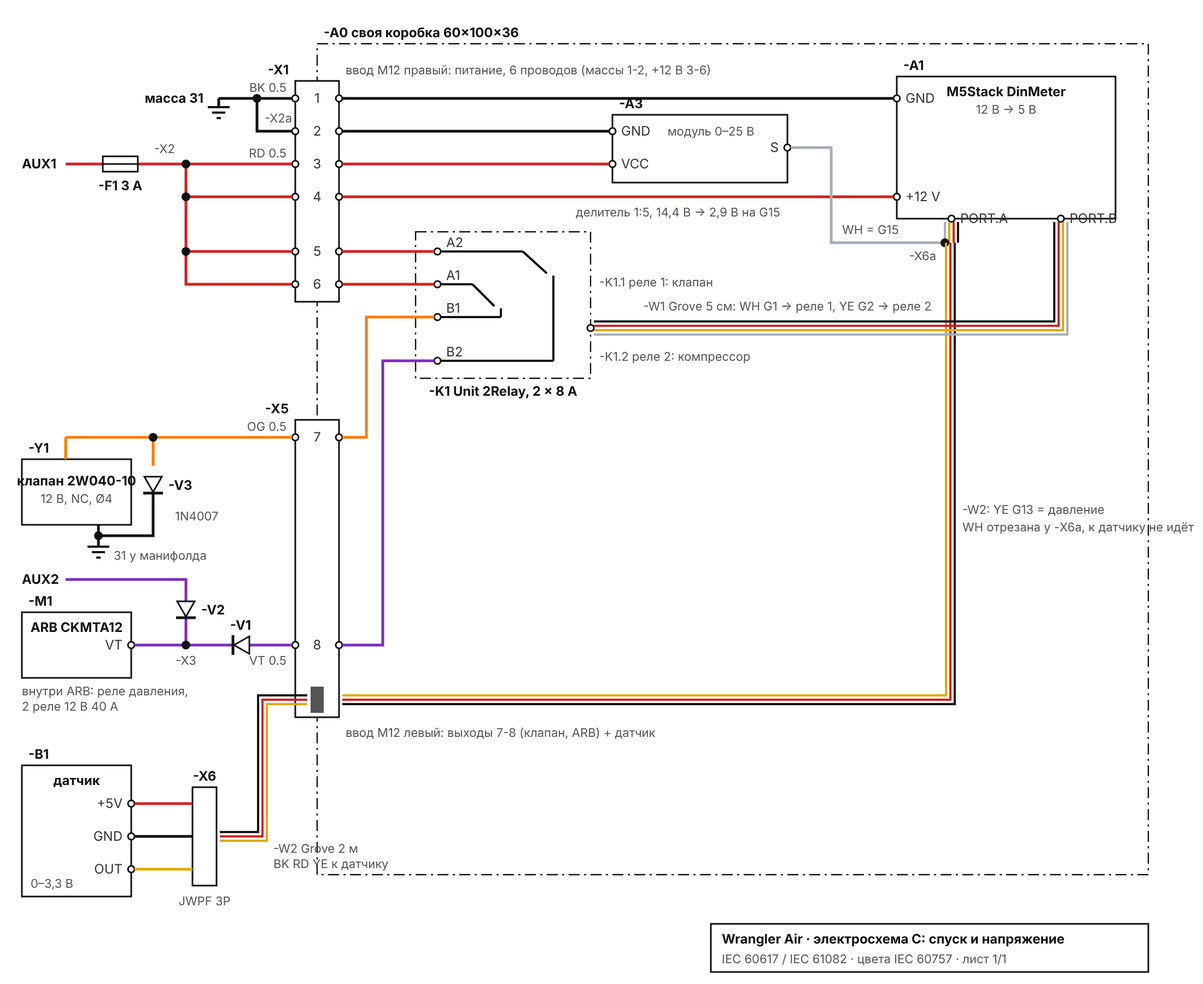
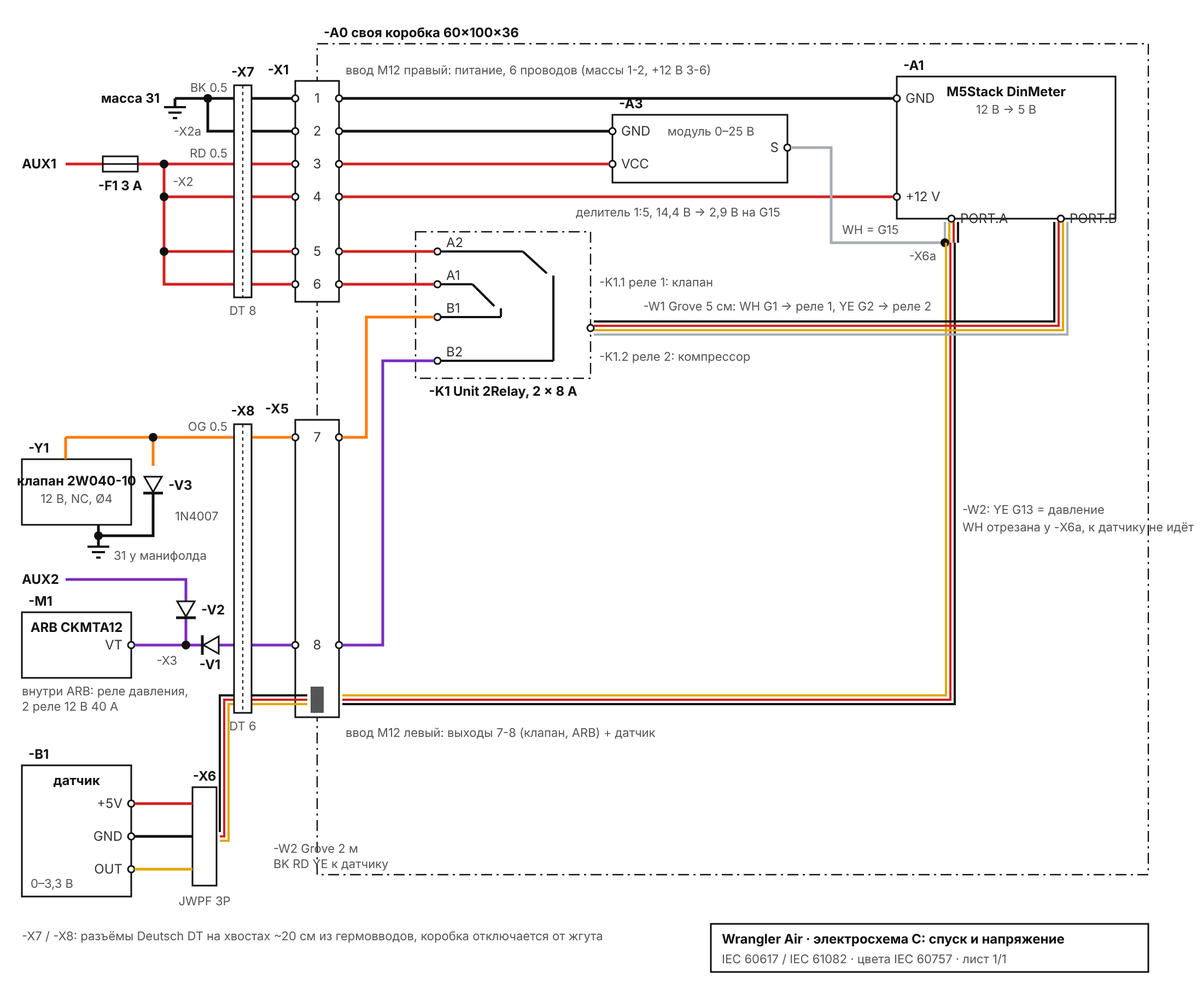
Schematic C: Deutsch DT connectors -X7 (in, 8-way) and -X8 (out, 6-way) on the gland pigtails
Claude-Session: https://claude.ai/code/session_018z5LvCZ9NFya6WZW91qW8w

diff --git a/hardware/enclosure/hammond_1591c/power_schematic_def.html b/hardware/enclosure/hammond_1591c/power_schematic_def.html
@@ -1,1 +1,1 @@
-<meta charset="utf-8"><body style="margin:0;--f:Inter,system-ui,sans-serif"><svg viewBox="0 0 1100 900" style="color:var(--fg);max-width:1100px;margin:0 auto;background:#fff;border-radius:8px"><style>.d{font:700 12px var(--f);fill:#111}.n{font:12px var(--f);fill:#333}.c{font:11px var(--f);fill:#555}.w{stroke:#111;stroke-width:2;fill:none;stroke-linejoin:miter}.b{fill:#fff;stroke:#111;stroke-width:1.5}.box{fill:none;stroke:#111;stroke-width:1.2;stroke-dasharray:10 4 2 4}.t{fill:#fff;stroke:#111;stroke-width:1.5}</style><rect x="290" y="40" width="760" height="760" class="box"/><text x="296" y="34" class="d" text-anchor="start">-A0  своя коробка 60×100×36</text><rect x="270" y="74" width="40" height="202" class="b"/><text x="264" y="68" class="d" text-anchor="end">-X1</text><text x="316" y="68" class="c" text-anchor="start">ввод M12 правый: питание, 6 проводов (массы 1-2, +12 В 3-6)</text><rect x="270" y="384" width="40" height="272" class="b"/><text x="264" y="378" class="d" text-anchor="end">-X5</text><text x="316" y="674" class="c" text-anchor="start">ввод M12 левый: выходы 7-8 (клапан, ARB) + датчик</text><circle cx="270" cy="90" r="3" class="t"/><circle cx="310" cy="90" r="3" class="t"/><text x="290" y="94" class="n" text-anchor="middle">1</text><circle cx="270" cy="120" r="3" class="t"/><circle cx="310" cy="120" r="3" class="t"/><text x="290" y="124" class="n" text-anchor="middle">2</text><circle cx="270" cy="150" r="3" class="t"/><circle cx="310" cy="150" r="3" class="t"/><text x="290" y="154" class="n" text-anchor="middle">3</text><circle cx="270" cy="180" r="3" class="t"/><circle cx="310" cy="180" r="3" class="t"/><text x="290" y="184" class="n" text-anchor="middle">4</text><circle cx="270" cy="230" r="3" class="t"/><circle cx="310" cy="230" r="3" class="t"/><text x="290" y="234" class="n" text-anchor="middle">5</text><circle cx="270" cy="260" r="3" class="t"/><circle cx="310" cy="260" r="3" class="t"/><text x="290" y="264" class="n" text-anchor="middle">6</text><circle cx="270" cy="400" r="3" class="t"/><circle cx="310" cy="400" r="3" class="t"/><text x="290" y="404" class="n" text-anchor="middle">7</text><circle cx="270" cy="590" r="3" class="t"/><circle cx="310" cy="590" r="3" class="t"/><text x="290" y="594" class="n" text-anchor="middle">8</text><rect x="284" y="628" width="12" height="24" fill="#555"/><polyline fill="none" stroke="#111111" stroke-width="2.5" stroke-linejoin="miter" points="200,90 267,90"/><polyline fill="none" stroke="#111111" stroke-width="2.5" stroke-linejoin="miter" points="235,90 235,120 267,120"/><circle cx="235" cy="90" r="4" fill="#111"/><polyline fill="none" stroke="#111111" stroke-width="2.5" stroke-linejoin="miter" points="200,90 200,98"/><line x1="190" y1="98" x2="210" y2="98" stroke="#111" stroke-width="2"/><line x1="194" y1="103" x2="206" y2="103" stroke="#111" stroke-width="2"/><line x1="198" y1="108" x2="202" y2="108" stroke="#111" stroke-width="2"/><text x="186" y="94" class="d" text-anchor="end">масса 31</text><text x="242" y="112" class="c" text-anchor="start">-X2a</text><text x="262" y="84" class="c" text-anchor="end">BK 0.5</text><text x="20" y="154" class="d" text-anchor="start">AUX1</text><polyline fill="none" stroke="#d42020" stroke-width="2.5" stroke-linejoin="miter" points="60,150 267,150"/><rect x="94" y="143" width="32" height="14" class="b"/><line x1="94" y1="150" x2="126" y2="150" stroke="#111" stroke-width="1.5"/><text x="110" y="136" class="d" text-anchor="middle"> </text><text x="110" y="174" class="d" text-anchor="middle">-F1 3 A</text><polyline fill="none" stroke="#d42020" stroke-width="2.5" stroke-linejoin="miter" points="170,150 170,260 267,260"/><polyline fill="none" stroke="#d42020" stroke-width="2.5" stroke-linejoin="miter" points="170,180 267,180"/><polyline fill="none" stroke="#d42020" stroke-width="2.5" stroke-linejoin="miter" points="170,230 267,230"/><circle cx="170" cy="150" r="4" fill="#111"/><circle cx="170" cy="180" r="4" fill="#111"/><circle cx="170" cy="230" r="4" fill="#111"/><text x="160" y="140" class="c" text-anchor="end">-X2</text><text x="262" y="144" class="c" text-anchor="end">RD 0.5</text><polyline fill="none" stroke="#ff7a00" stroke-width="2.5" stroke-linejoin="miter" points="60,400 267,400"/><text x="262" y="394" class="c" text-anchor="end">OG 0.5</text><rect x="20" y="420" width="100" height="60" class="b"/><text x="26" y="414" class="d" text-anchor="start">-Y1</text><text x="70" y="444" class="d" text-anchor="middle">клапан 2W040-10</text><text x="70" y="460" class="c" text-anchor="middle">12 В, NC, Ø4</text><polyline fill="none" stroke="#ff7a00" stroke-width="2.5" stroke-linejoin="miter" points="60,400 60,420"/><polyline fill="none" stroke="#111111" stroke-width="2.5" stroke-linejoin="miter" points="90,480 90,500"/><line x1="80" y1="500" x2="100" y2="500" stroke="#111" stroke-width="2"/><line x1="84" y1="505" x2="96" y2="505" stroke="#111" stroke-width="2"/><line x1="88" y1="510" x2="92" y2="510" stroke="#111" stroke-width="2"/><text x="104" y="512" class="c" text-anchor="start">31 у манифолда</text><polyline fill="none" stroke="#ff7a00" stroke-width="2.5" stroke-linejoin="miter" points="140,400 140,426"/><polygon points="132,436 148,436 140,450" class="b"/><line x1="131" y1="451" x2="149" y2="451" stroke="#111" stroke-width="2.5"/><text x="154" y="448" class="d" text-anchor="start">-V3</text><polyline fill="none" stroke="#111111" stroke-width="2.5" stroke-linejoin="miter" points="140,452 140,490 90,490"/><circle cx="140" cy="400" r="4" fill="#111"/><circle cx="90" cy="490" r="4" fill="#111"/><text x="160" y="476" class="c" text-anchor="start">1N4007</text><text x="20" y="534" class="d" text-anchor="start">AUX2</text><polyline fill="none" stroke="#7b2cbf" stroke-width="2.5" stroke-linejoin="miter" points="60,530 170,530 170,590"/><polygon points="162,550 178,550 170,564" class="b"/><line x1="161" y1="565" x2="179" y2="565" stroke="#111" stroke-width="2.5"/><text x="184" y="562" class="d" text-anchor="start">-V2</text><rect x="20" y="560" width="100" height="60" class="b"/><text x="26" y="554" class="d" text-anchor="start">-M1</text><text x="70.0" y="578" class="d" text-anchor="middle">ARB CKMTA12</text><circle cx="120" cy="590" r="3" class="t"/><text x="112" y="594" class="n" text-anchor="end">VT</text><polyline fill="none" stroke="#7b2cbf" stroke-width="2.5" stroke-linejoin="miter" points="123,590 267,590"/><circle cx="170" cy="590" r="4" fill="#111"/><polygon points="228,582 228,598 214,590" class="b"/><line x1="213" y1="581" x2="213" y2="599" stroke="#111" stroke-width="2.5"/><text x="220" y="576" class="d" text-anchor="middle">-V1</text><text x="170" y="608" class="c" text-anchor="middle">-X3</text><text x="262" y="608" class="c" text-anchor="end">VT 0.5</text><text x="20" y="636" class="c" text-anchor="start">внутри ARB: реле давления,</text><text x="20" y="650" class="c" text-anchor="start">2 реле 12 В 40 А</text><rect x="20" y="700" width="100" height="120" class="b"/><text x="26" y="694" class="d" text-anchor="start">-B1</text><text x="70.0" y="718" class="d" text-anchor="middle">датчик</text><text x="28" y="812" class="c" text-anchor="start">0–3,3 В</text><circle cx="120" cy="735" r="3" class="t"/><text x="112" y="739" class="n" text-anchor="end">+5V</text><circle cx="120" cy="765" r="3" class="t"/><text x="112" y="769" class="n" text-anchor="end">GND</text><circle cx="120" cy="795" r="3" class="t"/><text x="112" y="799" class="n" text-anchor="end">OUT</text><rect x="176" y="720" width="22" height="90" class="b"/><text x="187" y="714" class="d" text-anchor="middle">-X6</text><text x="187" y="828" class="c" text-anchor="middle">JWPF 3P</text><polyline fill="none" stroke="#d42020" stroke-width="2.5" stroke-linejoin="miter" points="123,735 176,735"/><polyline fill="none" stroke="#111111" stroke-width="2.5" stroke-linejoin="miter" points="123,765 176,765"/><polyline fill="none" stroke="#e0a800" stroke-width="2.5" stroke-linejoin="miter" points="123,795 176,795"/><polyline fill="none" stroke="#111111" stroke-width="2" stroke-linejoin="miter" points="281,636.0 236.0,636.0 236.0,761.0 201,761.0"/><polyline fill="none" stroke="#d42020" stroke-width="2" stroke-linejoin="miter" points="281,640.0 240.0,640.0 240.0,765.0 201,765.0"/><polyline fill="none" stroke="#e0a800" stroke-width="2" stroke-linejoin="miter" points="281,644.0 244.0,644.0 244.0,769.0 201,769.0"/><text x="250" y="780" class="c" text-anchor="start">-W2 Grove 2 м</text><text x="250" y="794" class="c" text-anchor="start">BK RD YE к датчику</text><rect x="820" y="70" width="200" height="130" class="b"/><text x="826" y="64" class="d" text-anchor="start">-A1</text><text x="920.0" y="88" class="d" text-anchor="middle">M5Stack DinMeter</text><text x="920.0" y="104" class="c" text-anchor="middle">12 В → 5 В</text><circle cx="820" cy="90" r="3" class="t"/><text x="828" y="94" class="n" text-anchor="start">GND</text><circle cx="820" cy="180" r="3" class="t"/><text x="828" y="184" class="n" text-anchor="start">+12 V</text><polyline fill="none" stroke="#111111" stroke-width="2.5" stroke-linejoin="miter" points="313,90 817,90"/><polyline fill="none" stroke="#d42020" stroke-width="2.5" stroke-linejoin="miter" points="313,180 817,180"/><circle cx="870" cy="200" r="3" class="t"/><text x="878" y="204" class="n" text-anchor="start">PORT.A</text><circle cx="970" cy="200" r="3" class="t"/><text x="978" y="204" class="n" text-anchor="start">PORT.B</text><rect x="560" y="105" width="160" height="62" class="b"/><text x="566" y="99" class="d" text-anchor="start">-A3</text><text x="640.0" y="123" class="d" text-anchor="middle"></text><text x="650" y="124" class="c" text-anchor="middle">модуль 0–25 В</text><circle cx="560" cy="120" r="3" class="t"/><text x="568" y="124" class="n" text-anchor="start">GND</text><circle cx="560" cy="150" r="3" class="t"/><text x="568" y="154" class="n" text-anchor="start">VCC</text><circle cx="720" cy="135" r="3" class="t"/><text x="712" y="139" class="n" text-anchor="end">S</text><polyline fill="none" stroke="#111111" stroke-width="2.5" stroke-linejoin="miter" points="313,120 557,120"/><polyline fill="none" stroke="#d42020" stroke-width="2.5" stroke-linejoin="miter" points="313,150 557,150"/><polyline fill="none" stroke="#a7adb4" stroke-width="2" stroke-linejoin="miter" points="864.0,203 864.0,222"/><polyline fill="none" stroke="#e0a800" stroke-width="2" stroke-linejoin="miter" points="868.0,203 868.0,222"/><polyline fill="none" stroke="#d42020" stroke-width="2" stroke-linejoin="miter" points="872.0,203 872.0,222"/><polyline fill="none" stroke="#111111" stroke-width="2" stroke-linejoin="miter" points="876.0,203 876.0,222"/><polyline fill="none" stroke="#a7adb4" stroke-width="2.5" stroke-linejoin="miter" points="864,222 760,222 760,135 723,135"/><circle cx="864" cy="222" r="4" fill="#111"/><text x="856" y="238" class="c" text-anchor="end">-X6a</text><text x="770" y="214" class="c" text-anchor="start">WH = G15</text><text x="620" y="198" class="c" text-anchor="middle">делитель 1:5, 14,4 В → 2,9 В на G15</text><polyline fill="none" stroke="#e0a800" stroke-width="2" stroke-linejoin="miter" points="865.0,222 865.0,636.0 313,636.0"/><polyline fill="none" stroke="#d42020" stroke-width="2" stroke-linejoin="miter" points="869.0,222 869.0,640.0 313,640.0"/><polyline fill="none" stroke="#111111" stroke-width="2" stroke-linejoin="miter" points="873.0,222 873.0,644.0 313,644.0"/><text x="880" y="470" class="c" text-anchor="start">-W2: YE G13 = давление</text><text x="880" y="486" class="c" text-anchor="start">WH отрезана у -X6a, к датчику не идёт</text><rect x="380" y="212" width="160" height="134" class="box"/><text x="460" y="362" class="d" text-anchor="middle">-K1 Unit 2Relay, 2 × 8 A</text><circle cx="400" cy="230" r="3" class="t"/><text x="408" y="226" class="n" text-anchor="start">A2</text><circle cx="400" cy="260" r="3" class="t"/><text x="408" y="256" class="n" text-anchor="start">A1</text><circle cx="400" cy="290" r="3" class="t"/><text x="408" y="286" class="n" text-anchor="start">B1</text><circle cx="400" cy="330" r="3" class="t"/><text x="408" y="326" class="n" text-anchor="start">B2</text><line x1="403" y1="260" x2="432" y2="260" stroke="#111" stroke-width="2"/><line x1="432" y1="260" x2="452" y2="280" stroke="#111" stroke-width="2"/><line x1="403" y1="290" x2="458" y2="290" stroke="#111" stroke-width="2"/><line x1="458" y1="290" x2="458" y2="282" stroke="#111" stroke-width="2"/><line x1="403" y1="230" x2="478" y2="230" stroke="#111" stroke-width="2"/><line x1="478" y1="230" x2="500" y2="250" stroke="#111" stroke-width="2"/><line x1="403" y1="330" x2="506" y2="330" stroke="#111" stroke-width="2"/><line x1="506" y1="330" x2="506" y2="252" stroke="#111" stroke-width="2"/><text x="548" y="262" class="c" text-anchor="start">-K1.1 реле 1: клапан</text><text x="548" y="330" class="c" text-anchor="start">-K1.2 реле 2: компрессор</text><polyline fill="none" stroke="#d42020" stroke-width="2.5" stroke-linejoin="miter" points="313,230 397,230"/><polyline fill="none" stroke="#d42020" stroke-width="2.5" stroke-linejoin="miter" points="313,260 397,260"/><polyline fill="none" stroke="#ff7a00" stroke-width="2.5" stroke-linejoin="miter" points="397,290 335,290 335,400 313,400"/><polyline fill="none" stroke="#7b2cbf" stroke-width="2.5" stroke-linejoin="miter" points="397,330 350,330 350,590 313,590"/><polyline fill="none" stroke="#111111" stroke-width="2" stroke-linejoin="miter" points="964.0,203 964.0,294.0 543,294.0"/><polyline fill="none" stroke="#d42020" stroke-width="2" stroke-linejoin="miter" points="968.0,203 968.0,298.0 543,298.0"/><polyline fill="none" stroke="#e0a800" stroke-width="2" stroke-linejoin="miter" points="972.0,203 972.0,302.0 543,302.0"/><polyline fill="none" stroke="#a7adb4" stroke-width="2" stroke-linejoin="miter" points="976.0,203 976.0,306.0 543,306.0"/><circle cx="540" cy="300" r="3" class="t"/><text x="720" y="284" class="c" text-anchor="middle">-W1 Grove 5 см: WH G1 → реле 1, YE G2 → реле 2</text><rect x="650" y="845" width="400" height="44" class="b"/><text x="660" y="863" class="d" text-anchor="start">Wrangler Air · электросхема C: спуск и напряжение</text><text x="660" y="881" class="c" text-anchor="start">IEC 60617 / IEC 61082 · цвета IEC 60757 · лист 1/1</text></svg>
+<meta charset="utf-8"><body style="margin:0;--f:Inter,system-ui,sans-serif"><svg viewBox="0 0 1100 900" style="color:var(--fg);max-width:1100px;margin:0 auto;background:#fff;border-radius:8px"><style>.d{font:700 12px var(--f);fill:#111}.n{font:12px var(--f);fill:#333}.c{font:11px var(--f);fill:#555}.w{stroke:#111;stroke-width:2;fill:none;stroke-linejoin:miter}.b{fill:#fff;stroke:#111;stroke-width:1.5}.box{fill:none;stroke:#111;stroke-width:1.2;stroke-dasharray:10 4 2 4}.t{fill:#fff;stroke:#111;stroke-width:1.5}</style><rect x="290" y="40" width="760" height="760" class="box"/><text x="296" y="34" class="d" text-anchor="start">-A0  своя коробка 60×100×36</text><rect x="270" y="74" width="40" height="202" class="b"/><text x="264" y="68" class="d" text-anchor="end">-X1</text><text x="316" y="68" class="c" text-anchor="start">ввод M12 правый: питание, 6 проводов (массы 1-2, +12 В 3-6)</text><rect x="270" y="384" width="40" height="272" class="b"/><text x="264" y="378" class="d" text-anchor="end">-X5</text><text x="316" y="674" class="c" text-anchor="start">ввод M12 левый: выходы 7-8 (клапан, ARB) + датчик</text><circle cx="270" cy="90" r="3" class="t"/><circle cx="310" cy="90" r="3" class="t"/><text x="290" y="94" class="n" text-anchor="middle">1</text><circle cx="270" cy="120" r="3" class="t"/><circle cx="310" cy="120" r="3" class="t"/><text x="290" y="124" class="n" text-anchor="middle">2</text><circle cx="270" cy="150" r="3" class="t"/><circle cx="310" cy="150" r="3" class="t"/><text x="290" y="154" class="n" text-anchor="middle">3</text><circle cx="270" cy="180" r="3" class="t"/><circle cx="310" cy="180" r="3" class="t"/><text x="290" y="184" class="n" text-anchor="middle">4</text><circle cx="270" cy="230" r="3" class="t"/><circle cx="310" cy="230" r="3" class="t"/><text x="290" y="234" class="n" text-anchor="middle">5</text><circle cx="270" cy="260" r="3" class="t"/><circle cx="310" cy="260" r="3" class="t"/><text x="290" y="264" class="n" text-anchor="middle">6</text><circle cx="270" cy="400" r="3" class="t"/><circle cx="310" cy="400" r="3" class="t"/><text x="290" y="404" class="n" text-anchor="middle">7</text><circle cx="270" cy="590" r="3" class="t"/><circle cx="310" cy="590" r="3" class="t"/><text x="290" y="594" class="n" text-anchor="middle">8</text><rect x="284" y="628" width="12" height="24" fill="#555"/><polyline fill="none" stroke="#111111" stroke-width="2.5" stroke-linejoin="miter" points="160,90 267,90"/><polyline fill="none" stroke="#111111" stroke-width="2.5" stroke-linejoin="miter" points="190,90 190,120 267,120"/><circle cx="190" cy="90" r="4" fill="#111"/><polyline fill="none" stroke="#111111" stroke-width="2.5" stroke-linejoin="miter" points="160,90 160,98"/><line x1="150" y1="98" x2="170" y2="98" stroke="#111" stroke-width="2"/><line x1="154" y1="103" x2="166" y2="103" stroke="#111" stroke-width="2"/><line x1="158" y1="108" x2="162" y2="108" stroke="#111" stroke-width="2"/><text x="146" y="94" class="d" text-anchor="end">масса 31</text><text x="184" y="124" class="c" text-anchor="end">-X2a</text><text x="208" y="84" class="c" text-anchor="end">BK 0.5</text><text x="20" y="154" class="d" text-anchor="start">AUX1</text><polyline fill="none" stroke="#d42020" stroke-width="2.5" stroke-linejoin="miter" points="60,150 267,150"/><rect x="94" y="143" width="32" height="14" class="b"/><line x1="94" y1="150" x2="126" y2="150" stroke="#111" stroke-width="1.5"/><text x="110" y="136" class="d" text-anchor="middle"> </text><text x="110" y="174" class="d" text-anchor="middle">-F1 3 A</text><polyline fill="none" stroke="#d42020" stroke-width="2.5" stroke-linejoin="miter" points="150,150 150,260 267,260"/><polyline fill="none" stroke="#d42020" stroke-width="2.5" stroke-linejoin="miter" points="150,180 267,180"/><polyline fill="none" stroke="#d42020" stroke-width="2.5" stroke-linejoin="miter" points="150,230 267,230"/><circle cx="150" cy="150" r="4" fill="#111"/><circle cx="150" cy="180" r="4" fill="#111"/><circle cx="150" cy="230" r="4" fill="#111"/><text x="158" y="170" class="c" text-anchor="start">-X2</text><text x="208" y="144" class="c" text-anchor="end">RD 0.5</text><polyline fill="none" stroke="#ff7a00" stroke-width="2.5" stroke-linejoin="miter" points="60,400 267,400"/><text x="208" y="394" class="c" text-anchor="end">OG 0.5</text><rect x="20" y="420" width="100" height="60" class="b"/><text x="26" y="414" class="d" text-anchor="start">-Y1</text><text x="70" y="444" class="d" text-anchor="middle">клапан 2W040-10</text><text x="70" y="460" class="c" text-anchor="middle">12 В, NC, Ø4</text><polyline fill="none" stroke="#ff7a00" stroke-width="2.5" stroke-linejoin="miter" points="60,400 60,420"/><polyline fill="none" stroke="#111111" stroke-width="2.5" stroke-linejoin="miter" points="90,480 90,500"/><line x1="80" y1="500" x2="100" y2="500" stroke="#111" stroke-width="2"/><line x1="84" y1="505" x2="96" y2="505" stroke="#111" stroke-width="2"/><line x1="88" y1="510" x2="92" y2="510" stroke="#111" stroke-width="2"/><text x="104" y="512" class="c" text-anchor="start">31 у манифолда</text><polyline fill="none" stroke="#ff7a00" stroke-width="2.5" stroke-linejoin="miter" points="140,400 140,426"/><polygon points="132,436 148,436 140,450" class="b"/><line x1="131" y1="451" x2="149" y2="451" stroke="#111" stroke-width="2.5"/><text x="154" y="448" class="d" text-anchor="start">-V3</text><polyline fill="none" stroke="#111111" stroke-width="2.5" stroke-linejoin="miter" points="140,452 140,490 90,490"/><circle cx="140" cy="400" r="4" fill="#111"/><circle cx="90" cy="490" r="4" fill="#111"/><text x="160" y="476" class="c" text-anchor="start">1N4007</text><text x="20" y="534" class="d" text-anchor="start">AUX2</text><polyline fill="none" stroke="#7b2cbf" stroke-width="2.5" stroke-linejoin="miter" points="60,530 170,530 170,590"/><polygon points="162,550 178,550 170,564" class="b"/><line x1="161" y1="565" x2="179" y2="565" stroke="#111" stroke-width="2.5"/><text x="184" y="562" class="d" text-anchor="start">-V2</text><rect x="20" y="560" width="100" height="60" class="b"/><text x="26" y="554" class="d" text-anchor="start">-M1</text><text x="70.0" y="578" class="d" text-anchor="middle">ARB CKMTA12</text><circle cx="120" cy="590" r="3" class="t"/><text x="112" y="594" class="n" text-anchor="end">VT</text><polyline fill="none" stroke="#7b2cbf" stroke-width="2.5" stroke-linejoin="miter" points="123,590 267,590"/><circle cx="170" cy="590" r="4" fill="#111"/><polygon points="200,582 200,598 186,590" class="b"/><line x1="185" y1="581" x2="185" y2="599" stroke="#111" stroke-width="2.5"/><text x="192" y="576" class="d" text-anchor="middle"></text><text x="192" y="612" class="d" text-anchor="middle">-V1</text><text x="162" y="608" class="c" text-anchor="end">-X3</text><text x="20" y="636" class="c" text-anchor="start">внутри ARB: реле давления,</text><text x="20" y="650" class="c" text-anchor="start">2 реле 12 В 40 А</text><rect x="20" y="700" width="100" height="120" class="b"/><text x="26" y="694" class="d" text-anchor="start">-B1</text><text x="70.0" y="718" class="d" text-anchor="middle">датчик</text><text x="28" y="812" class="c" text-anchor="start">0–3,3 В</text><circle cx="120" cy="735" r="3" class="t"/><text x="112" y="739" class="n" text-anchor="end">+5V</text><circle cx="120" cy="765" r="3" class="t"/><text x="112" y="769" class="n" text-anchor="end">GND</text><circle cx="120" cy="795" r="3" class="t"/><text x="112" y="799" class="n" text-anchor="end">OUT</text><rect x="176" y="720" width="22" height="90" class="b"/><text x="187" y="714" class="d" text-anchor="middle">-X6</text><text x="187" y="828" class="c" text-anchor="middle">JWPF 3P</text><polyline fill="none" stroke="#d42020" stroke-width="2.5" stroke-linejoin="miter" points="123,735 176,735"/><polyline fill="none" stroke="#111111" stroke-width="2.5" stroke-linejoin="miter" points="123,765 176,765"/><polyline fill="none" stroke="#e0a800" stroke-width="2.5" stroke-linejoin="miter" points="123,795 176,795"/><polyline fill="none" stroke="#111111" stroke-width="2" stroke-linejoin="miter" points="281,636.0 201.0,636.0 201.0,761.0 201,761.0"/><polyline fill="none" stroke="#d42020" stroke-width="2" stroke-linejoin="miter" points="281,640.0 205.0,640.0 205.0,765.0 201,765.0"/><polyline fill="none" stroke="#e0a800" stroke-width="2" stroke-linejoin="miter" points="281,644.0 209.0,644.0 209.0,769.0 201,769.0"/><text x="250" y="780" class="c" text-anchor="start">-W2 Grove 2 м</text><text x="250" y="794" class="c" text-anchor="start">BK RD YE к датчику</text><rect x="820" y="70" width="200" height="130" class="b"/><text x="826" y="64" class="d" text-anchor="start">-A1</text><text x="920.0" y="88" class="d" text-anchor="middle">M5Stack DinMeter</text><text x="920.0" y="104" class="c" text-anchor="middle">12 В → 5 В</text><circle cx="820" cy="90" r="3" class="t"/><text x="828" y="94" class="n" text-anchor="start">GND</text><circle cx="820" cy="180" r="3" class="t"/><text x="828" y="184" class="n" text-anchor="start">+12 V</text><polyline fill="none" stroke="#111111" stroke-width="2.5" stroke-linejoin="miter" points="313,90 817,90"/><polyline fill="none" stroke="#d42020" stroke-width="2.5" stroke-linejoin="miter" points="313,180 817,180"/><circle cx="870" cy="200" r="3" class="t"/><text x="878" y="204" class="n" text-anchor="start">PORT.A</text><circle cx="970" cy="200" r="3" class="t"/><text x="978" y="204" class="n" text-anchor="start">PORT.B</text><rect x="560" y="105" width="160" height="62" class="b"/><text x="566" y="99" class="d" text-anchor="start">-A3</text><text x="640.0" y="123" class="d" text-anchor="middle"></text><text x="650" y="124" class="c" text-anchor="middle">модуль 0–25 В</text><circle cx="560" cy="120" r="3" class="t"/><text x="568" y="124" class="n" text-anchor="start">GND</text><circle cx="560" cy="150" r="3" class="t"/><text x="568" y="154" class="n" text-anchor="start">VCC</text><circle cx="720" cy="135" r="3" class="t"/><text x="712" y="139" class="n" text-anchor="end">S</text><polyline fill="none" stroke="#111111" stroke-width="2.5" stroke-linejoin="miter" points="313,120 557,120"/><polyline fill="none" stroke="#d42020" stroke-width="2.5" stroke-linejoin="miter" points="313,150 557,150"/><polyline fill="none" stroke="#a7adb4" stroke-width="2" stroke-linejoin="miter" points="864.0,203 864.0,222"/><polyline fill="none" stroke="#e0a800" stroke-width="2" stroke-linejoin="miter" points="868.0,203 868.0,222"/><polyline fill="none" stroke="#d42020" stroke-width="2" stroke-linejoin="miter" points="872.0,203 872.0,222"/><polyline fill="none" stroke="#111111" stroke-width="2" stroke-linejoin="miter" points="876.0,203 876.0,222"/><polyline fill="none" stroke="#a7adb4" stroke-width="2.5" stroke-linejoin="miter" points="864,222 760,222 760,135 723,135"/><circle cx="864" cy="222" r="4" fill="#111"/><text x="856" y="238" class="c" text-anchor="end">-X6a</text><text x="770" y="214" class="c" text-anchor="start">WH = G15</text><text x="620" y="198" class="c" text-anchor="middle">делитель 1:5, 14,4 В → 2,9 В на G15</text><polyline fill="none" stroke="#e0a800" stroke-width="2" stroke-linejoin="miter" points="865.0,222 865.0,636.0 313,636.0"/><polyline fill="none" stroke="#d42020" stroke-width="2" stroke-linejoin="miter" points="869.0,222 869.0,640.0 313,640.0"/><polyline fill="none" stroke="#111111" stroke-width="2" stroke-linejoin="miter" points="873.0,222 873.0,644.0 313,644.0"/><text x="880" y="470" class="c" text-anchor="start">-W2: YE G13 = давление</text><text x="880" y="486" class="c" text-anchor="start">WH отрезана у -X6a, к датчику не идёт</text><rect x="380" y="212" width="160" height="134" class="box"/><text x="460" y="362" class="d" text-anchor="middle">-K1 Unit 2Relay, 2 × 8 A</text><circle cx="400" cy="230" r="3" class="t"/><text x="408" y="226" class="n" text-anchor="start">A2</text><circle cx="400" cy="260" r="3" class="t"/><text x="408" y="256" class="n" text-anchor="start">A1</text><circle cx="400" cy="290" r="3" class="t"/><text x="408" y="286" class="n" text-anchor="start">B1</text><circle cx="400" cy="330" r="3" class="t"/><text x="408" y="326" class="n" text-anchor="start">B2</text><line x1="403" y1="260" x2="432" y2="260" stroke="#111" stroke-width="2"/><line x1="432" y1="260" x2="452" y2="280" stroke="#111" stroke-width="2"/><line x1="403" y1="290" x2="458" y2="290" stroke="#111" stroke-width="2"/><line x1="458" y1="290" x2="458" y2="282" stroke="#111" stroke-width="2"/><line x1="403" y1="230" x2="478" y2="230" stroke="#111" stroke-width="2"/><line x1="478" y1="230" x2="500" y2="250" stroke="#111" stroke-width="2"/><line x1="403" y1="330" x2="506" y2="330" stroke="#111" stroke-width="2"/><line x1="506" y1="330" x2="506" y2="252" stroke="#111" stroke-width="2"/><text x="548" y="262" class="c" text-anchor="start">-K1.1 реле 1: клапан</text><text x="548" y="330" class="c" text-anchor="start">-K1.2 реле 2: компрессор</text><polyline fill="none" stroke="#d42020" stroke-width="2.5" stroke-linejoin="miter" points="313,230 397,230"/><polyline fill="none" stroke="#d42020" stroke-width="2.5" stroke-linejoin="miter" points="313,260 397,260"/><polyline fill="none" stroke="#ff7a00" stroke-width="2.5" stroke-linejoin="miter" points="397,290 335,290 335,400 313,400"/><polyline fill="none" stroke="#7b2cbf" stroke-width="2.5" stroke-linejoin="miter" points="397,330 350,330 350,590 313,590"/><polyline fill="none" stroke="#111111" stroke-width="2" stroke-linejoin="miter" points="964.0,203 964.0,294.0 543,294.0"/><polyline fill="none" stroke="#d42020" stroke-width="2" stroke-linejoin="miter" points="968.0,203 968.0,298.0 543,298.0"/><polyline fill="none" stroke="#e0a800" stroke-width="2" stroke-linejoin="miter" points="972.0,203 972.0,302.0 543,302.0"/><polyline fill="none" stroke="#a7adb4" stroke-width="2" stroke-linejoin="miter" points="976.0,203 976.0,306.0 543,306.0"/><circle cx="540" cy="300" r="3" class="t"/><text x="720" y="284" class="c" text-anchor="middle">-W1 Grove 5 см: WH G1 → реле 1, YE G2 → реле 2</text><rect x="214" y="78" width="16" height="194" fill="var(--bg,#fff)" stroke="#111" stroke-width="1.5"/><line x1="222" y1="78" x2="222" y2="272" stroke="#111" stroke-width="1" stroke-dasharray="3 3"/><text x="222" y="70" class="d" text-anchor="middle">-X7</text><text x="222" y="288" class="c" text-anchor="middle">DT 8</text><rect x="214" y="388" width="16" height="264" fill="var(--bg,#fff)" stroke="#111" stroke-width="1.5"/><line x1="222" y1="388" x2="222" y2="652" stroke="#111" stroke-width="1" stroke-dasharray="3 3"/><text x="222" y="380" class="d" text-anchor="middle">-X8</text><text x="222" y="668" class="c" text-anchor="middle">DT 6</text><text x="20" y="860" class="c" text-anchor="start">-X7 / -X8: разъёмы Deutsch DT на хвостах ~20 см из гермовводов, коробка отключается от жгута</text><rect x="650" y="845" width="400" height="44" class="b"/><text x="660" y="863" class="d" text-anchor="start">Wrangler Air · электросхема C: спуск и напряжение</text><text x="660" y="881" class="c" text-anchor="start">IEC 60617 / IEC 61082 · цвета IEC 60757 · лист 1/1</text></svg>

diff --git a/hardware/enclosure/hammond_1591c/power_svg.py b/hardware/enclosure/hammond_1591c/power_svg.py
@@ -456,18 +456,18 @@ def power_svg_iec_def():
         L(*pts, c=c, w=3); slash(*at, n, vertical)
 
     # ---- outside: -X2a ground splice (2 wires), -X2 +12 V splice after -F1 (4 wires) ----
-    L((200, T[1]), (267, T[1]), c="BK"); L((235, T[1]), (235, T[2]), (267, T[2]), c="BK"); dot(235, T[1])
-    L((200, T[1]), (200, T[1] + 8), c="BK"); ground(200, T[1] + 8)
-    lab(186, T[1] + 4, "масса 31", "d", "end"); lab(242, T[2] - 8, "-X2a", "c", "start")
-    lab(262, T[1] - 6, "BK 0.5", "c", "end")
+    L((160, T[1]), (267, T[1]), c="BK"); L((190, T[1]), (190, T[2]), (267, T[2]), c="BK"); dot(190, T[1])
+    L((160, T[1]), (160, T[1] + 8), c="BK"); ground(160, T[1] + 8)
+    lab(146, T[1] + 4, "масса 31", "d", "end"); lab(184, T[2] + 4, "-X2a", "c", "end")
+    lab(208, T[1] - 6, "BK 0.5", "c", "end")
     lab(20, T[3] + 4, "AUX1", "d", "start"); L((60, T[3]), (267, T[3]), c="RD")
     fuse_h(110, T[3], "", ""); lab(110, T[3] + 24, "-F1 3 A", "d")
-    L((170, T[3]), (170, T[6]), (267, T[6]), c="RD"); L((170, T[4]), (267, T[4]), c="RD"); L((170, T[5]), (267, T[5]), c="RD")
-    dot(170, T[3]); dot(170, T[4]); dot(170, T[5]); lab(160, T[3] - 10, "-X2", "c", "end")
-    lab(262, T[3] - 6, "RD 0.5", "c", "end")
+    L((150, T[3]), (150, T[6]), (267, T[6]), c="RD"); L((150, T[4]), (267, T[4]), c="RD"); L((150, T[5]), (267, T[5]), c="RD")
+    dot(150, T[3]); dot(150, T[4]); dot(150, T[5]); lab(158, T[3] + 20, "-X2", "c", "start")
+    lab(208, T[3] - 6, "RD 0.5", "c", "end")
     # deflate valve -Y1 with its flyback diode -V3, ground at the manifold
     VY = T[7]
-    L((60, VY), (267, VY), c="OG"); lab(262, VY - 6, "OG 0.5", "c", "end")
+    L((60, VY), (267, VY), c="OG"); lab(208, VY - 6, "OG 0.5", "c", "end")
     o.append(f'<rect x="20" y="{VY+20}" width="100" height="60" class="b"/>'); lab(26, VY + 14, "-Y1", "d", "start")
     lab(70, VY + 44, "клапан 2W040-10", "d"); lab(70, VY + 60, "12 В, NC, Ø4", "c")
     L((60, VY), (60, VY + 20), c="OG")
@@ -481,8 +481,8 @@ def power_svg_iec_def():
     comp(20, MY - 30, 100, 60, "-M1", "ARB CKMTA12", "")
     pinl(120, MY, "VT", "r")
     L((123, MY), (267, MY), c="VT"); dot(170, MY)
-    diode_h(220, MY, "-V1")
-    lab(170, MY + 18, "-X3", "c"); lab(262, MY + 18, "VT 0.5", "c", "end")
+    diode_h(192, MY, ""); lab(192, MY + 22, "-V1", "d")
+    lab(162, MY + 18, "-X3", "c", "end")
     lab(20, MY + 46, "внутри ARB: реле давления,", "c", "start"); lab(20, MY + 60, "2 реле 12 В 40 А", "c", "start")
     # sensor -B1 on the 2 m Grove, connector -X6 at the sensor (3 conductors used, WH unused there)
     S = {"+5V": 735, "GND": 765, "OUT": 795}
@@ -491,7 +491,7 @@ def power_svg_iec_def():
         pinl(120, y, t, "r")
     o.append('<rect x="176" y="720" width="22" height="90" class="b"/>'); lab(187, 714, "-X6", "d"); lab(187, 828, "JWPF 3P", "c")
     L((123, S["+5V"]), (176, S["+5V"]), c="RD"); L((123, S["GND"]), (176, S["GND"]), c="BK"); L((123, S["OUT"]), (176, S["OUT"]), c="YE")
-    grove4([(281, G2), (240, G2), (240, S["GND"]), (201, S["GND"])], order=("BK", "RD", "YE"))
+    grove4([(281, G2), (205, G2), (205, S["GND"]), (201, S["GND"])], order=("BK", "RD", "YE"))
     lab(250, 780, "-W2 Grove 2 м", "c", "start"); lab(250, 794, "BK RD YE к датчику", "c", "start")
 
     # ---- inside ----
@@ -528,6 +528,15 @@ def power_svg_iec_def():
     L((397, B2), (350, B2), (350, T[8]), (313, T[8]), c="VT")
     grove4([(970, 203), (970, 300), (543, 300)])
     o.append('<circle cx="540" cy="300" r="3" class="t"/>'); lab(720, 284, "-W1 Grove 5 см: WH G1 → реле 1, YE G2 → реле 2", "c")
+
+    # connectors on the pigtails out of the glands (~20 cm): the box unplugs from the car harness, the glands stay
+    def conn(y0, y1, name, sub):
+        o.append(f'<rect x="214" y="{y0}" width="16" height="{y1-y0}" fill="var(--bg,#fff)" stroke="#111" stroke-width="1.5"/>')
+        o.append(f'<line x1="222" y1="{y0}" x2="222" y2="{y1}" stroke="#111" stroke-width="1" stroke-dasharray="3 3"/>')
+        lab(222, y0 - 8, name, "d"); lab(222, y1 + 16, sub, "c")
+    conn(T[1] - 12, T[6] + 12, "-X7", "DT 8")
+    conn(T[7] - 12, G2 + 12, "-X8", "DT 6")
+    lab(20, 860, "-X7 / -X8: разъёмы Deutsch DT на хвостах ~20 см из гермовводов, коробка отключается от жгута", "c", "start")
 
     # title block
     o.append('<rect x="650" y="845" width="400" height="44" class="b"/>')

diff --git a/docs/decisions.md b/docs/decisions.md
@@ -118,3 +118,9 @@
 - Same day, owner: no splice inside the box at all. Relay 1 A gets its own red wire from -X2 (no A2-A1 jumper). -X1 order: 1-2 grounds (DinMeter, module), 3-6 +12 V (module, DinMeter, relay 2 A, relay 1 A), 7 output OG to the valve; -X5: 8 output VT to the ARB plus the Grove to the sensor. Right gland now 7 wires (hex bundle ~5.3 mm, same as 6) in the 9.5 mm adhesive heat-shrink jacket.
 - -X2 splice outside: AUX1 after -F1 into 4 wires; -X2a: ground into 2 wires.
 - Owner: the valve wire is an output, so it moves to the outputs. Right gland = power in only, 6 wires (1-2 grounds, 3-6 +12 V). Left gland = outputs 7 OG (valve) and 8 VT (ARB) plus the Grove to the sensor; valve and sensor both sit at the manifold, so they leave together.
+
+## 2026-11-19 Box disconnect: Deutsch DT connectors on the pigtails
+- Owner: glands stay, no connectors in the box wall. The wires leave the glands as ~20 cm pigtails ending in Deutsch DT connectors, so the box unplugs from the car harness.
+- -X7 input, DT 8-way (6 used): 1 BK DinMeter, 2 BK module, 3 RD module, 4 RD DinMeter, 5 RD relay 2 A, 6 RD relay 1 A, 7-8 spare with seal plugs. Box pigtail DT04-08P (pins), car side DT06-08S (sockets): the always-live car side has the shrouded sockets.
+- -X8 output, DT 6-way (5 used): 1 OG valve, 2 VT ARB, 3 BK sensor GND, 4 RD sensor +5 V, 5 YE sensor signal, 6 spare. Box pigtail DT06-6S (sockets), car side DT04-6P (pins). Different size and gender, so the two cannot be swapped.
+- DT: 13 A per contact, IP68, needs the DT crimp tool. Splices -X2 (+12 V, 1 to 4) and -X2a (ground, 1 to 2) stay in the car harness before -X7.

diff --git a/docs/bom.md b/docs/bom.md
@@ -97,3 +97,12 @@ Mini 3A Relay из первого заказа остаётся запасным
 | Манифолд ARB 171503 | CHF 114, покупает сам |
 | Тройник 1/4 NPT и шланги к колёсам | пневматика |
 | 3M VHB | Galaxus, лежит в корзине |
+
+## Разъёмы для отключения коробки (Deutsch DT, на хвостах из гермовводов)
+
+| Что | Кол-во | Ссылка |
+|---|---|---|
+| Набор DT 2-12 контактов с контактами и обжимником | 1 | [набор с клещами, CHF 40.75](https://de.aliexpress.com/item/1005007203493780.html) |
+| Пары DT 8 и DT 6 отдельно, если в наборе нет | по 1 | [DT 2/4/6/8/12, от CHF 1.92](https://de.aliexpress.com/item/1005009930082722.html) |
+
+Распиновка -X7 (вход, DT 8) и -X8 (выход, DT 6): docs/decisions.md, 2026-11-19.
